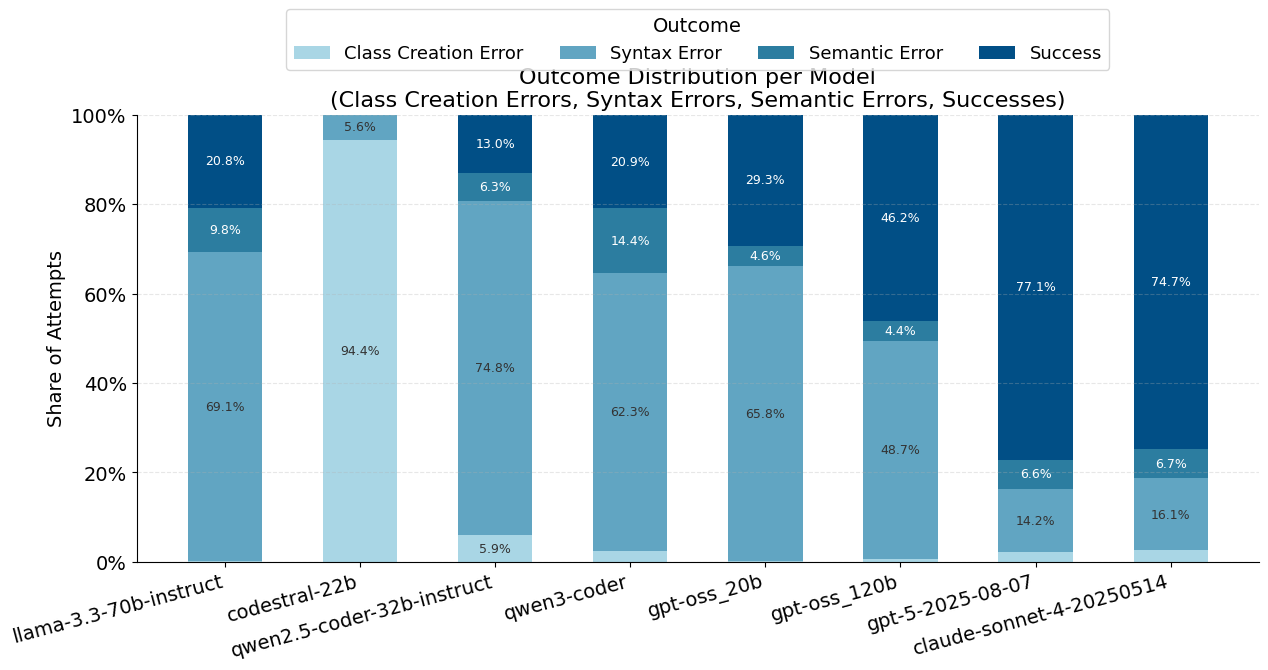
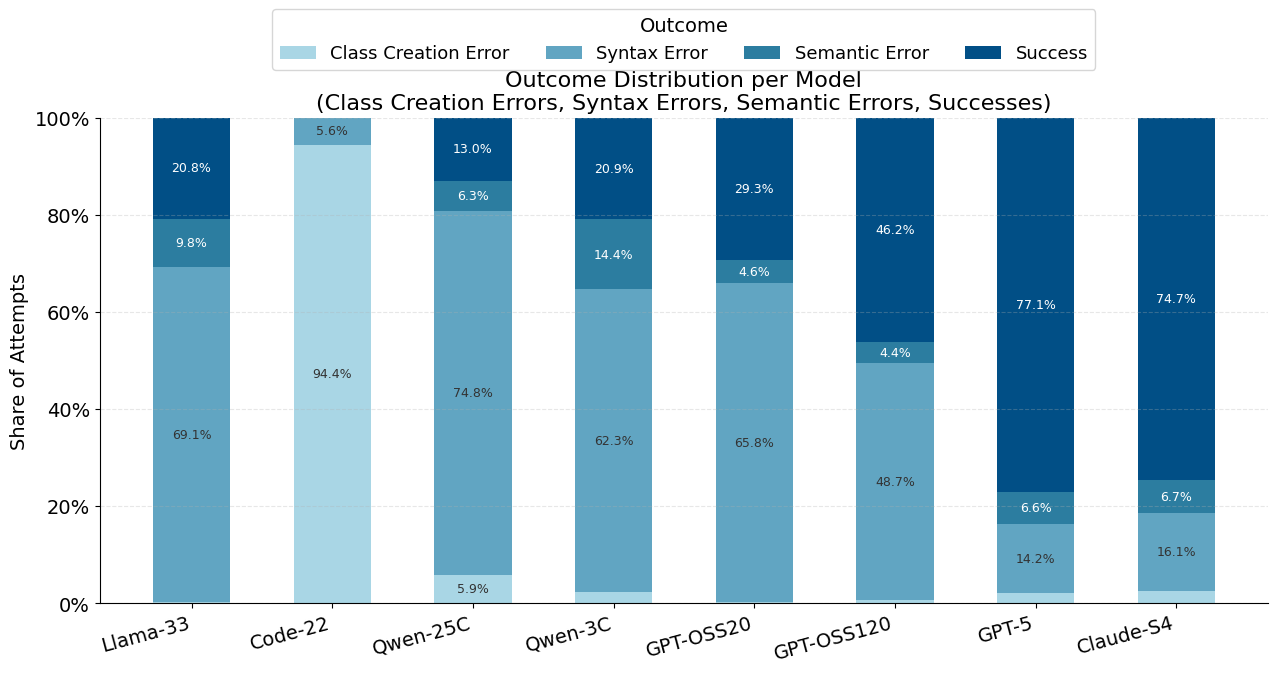
use model name abbreviations in plots

diff --git a/analysis/plot_success_with_vs_without_unittest.py b/analysis/plot_success_with_vs_without_unittest.py
@@ -3,7 +3,7 @@ import numpy as np
 import matplotlib.pyplot as plt
 from matplotlib.ticker import PercentFormatter
 from typing import Dict, Tuple
-from plot_style import COLORS, apply_plot_style
+from plot_style import COLORS, apply_plot_style, MODEL_ABBREVIATIONS
 
 apply_plot_style()
 
@@ -143,7 +143,7 @@ def plot_comparison(success_normal: Dict[str, float], success_no_ut: Dict[str, f
         ax.text(bar.get_x() + bar.get_width() / 2, height + normal_errs[i] + 1, f'{height:.1f}%', ha='center', va='bottom', fontsize=9, rotation=0)
     
     ax.set_xticks(x)
-    ax.set_xticklabels(models, rotation=15, ha="right")
+    ax.set_xticklabels([MODEL_ABBREVIATIONS.get(m, m) for m in models], rotation=15, ha="right")
     ax.set_ylabel("Successful Code Generations")
     ax.yaxis.set_major_formatter(PercentFormatter(100))
     ax.set_title("Success Rate: Without Unit Test Improvement vs After 5 Feedback Rounds\n(with 95% Confidence Intervals)")

diff --git a/analysis/plot_success_by_category.py b/analysis/plot_success_by_category.py
@@ -3,7 +3,7 @@ import numpy as np
 import matplotlib.pyplot as plt
 from matplotlib.ticker import PercentFormatter
 from typing import Dict, List
-from plot_style import COLORS, apply_plot_style
+from plot_style import COLORS, apply_plot_style, MODEL_ABBREVIATIONS
 
 apply_plot_style()
 
@@ -120,7 +120,7 @@ def visualize_prompt_classification_success(data: Dict[str, Dict[str, float]], c
             error_kw={'elinewidth': 1, 'alpha': 0.7}
         )
         
-    plt.xticks(x + bar_width * (num_categories - 1) / 2, models, rotation=15, ha="right")
+    plt.xticks(x + bar_width * (num_categories - 1) / 2, [MODEL_ABBREVIATIONS.get(m, m) for m in models], rotation=15, ha="right")
     plt.ylabel("Success Rate")
     plt.title("Model Performance by Task Category (with 95% CIs)")
     plt.gca().yaxis.set_major_formatter(PercentFormatter(100))

diff --git a/analysis/plot_success_by_round.py b/analysis/plot_success_by_round.py
@@ -3,7 +3,7 @@ import numpy as np
 import matplotlib.pyplot as plt
 from matplotlib.ticker import PercentFormatter
 from typing import Dict, List
-from plot_style import COLORS, apply_plot_style
+from plot_style import COLORS, apply_plot_style, MODEL_ABBREVIATIONS
 
 apply_plot_style()
 
@@ -120,7 +120,7 @@ def visualize_success_by_llm(model_data: Dict[str, List[float]], sample_counts: 
         )
 
     ax.set_xticks(x)
-    ax.set_xticklabels(models, rotation=15, ha="right")
+    ax.set_xticklabels([MODEL_ABBREVIATIONS.get(m, m) for m in models], rotation=15, ha="right")
     ax.set_ylabel("Cumulative Successful Runs")
     ax.yaxis.set_major_formatter(PercentFormatter(100))
     ax.set_title("Cumulative Successful Code Generations by Feedback Round in Percent\n(with 95% Confidence Intervals)")

diff --git a/analysis/plot_unsolved_prompts.py b/analysis/plot_unsolved_prompts.py
@@ -2,7 +2,7 @@ import pandas as pd
 import numpy as np
 import matplotlib.pyplot as plt
 from typing import Dict, List, Set, Tuple
-from plot_style import COLORS, apply_plot_style
+from plot_style import COLORS, apply_plot_style, MODEL_ABBREVIATIONS
 
 apply_plot_style()
 
@@ -99,7 +99,7 @@ def plot_unsolved_counts(unsolved_prompts: Dict[str, Set[str]], models: List[str
         )
         
     ax.set_xticks(x)
-    ax.set_xticklabels(models, rotation=15, ha="right")
+    ax.set_xticklabels([MODEL_ABBREVIATIONS.get(m, m) for m in models], rotation=15, ha="right")
     ax.set_ylabel("Number of Unsolved Prompts")
     ax.set_title("Total Unsolved Prompts by Model (Never Succeeded in Any Repetition)")
     

diff --git a/analysis/km_analysis.py b/analysis/km_analysis.py
@@ -2,7 +2,7 @@ import pandas as pd
 from lifelines import KaplanMeierFitter
 import numpy as np
 import matplotlib.pyplot as plt
-from plot_style import COLORS, LINE_STYLES, apply_plot_style
+from plot_style import COLORS, LINE_STYLES, apply_plot_style, MODEL_ABBREVIATIONS
 
 apply_plot_style()
 
@@ -100,7 +100,7 @@ def run_analysis():
         print(f"Samples: {len(km_df)} | Events: {km_df['event'].sum()}")
 
         kmf = KaplanMeierFitter()
-        kmf.fit(km_df['duration'], km_df['event'], label=model)
+        kmf.fit(km_df['duration'], km_df['event'], label=MODEL_ABBREVIATIONS.get(model, model))
 
         print("\n--- Survival Table (Head) ---")
         print(kmf.event_table.head())

diff --git a/analysis/plot_syntax_error_patterns.py b/analysis/plot_syntax_error_patterns.py
@@ -3,7 +3,7 @@ import pandas as pd
 import numpy as np
 import matplotlib.pyplot as plt
 from matplotlib.ticker import PercentFormatter
-from plot_style import COLORS, apply_plot_style
+from plot_style import COLORS, apply_plot_style, MODEL_ABBREVIATIONS
 
 apply_plot_style()
 
@@ -85,7 +85,7 @@ def visualize_syntax_errors(json_path='../data/syntax_errors.json'):
         )
 
     ax.set_xticks(x)
-    ax.set_xticklabels(models, rotation=15, ha="right")
+    ax.set_xticklabels([MODEL_ABBREVIATIONS.get(m, m) for m in models], rotation=15, ha="right")
     ax.set_xlabel("Models")
     ax.set_ylabel("Percentage of Errors")
     ax.yaxis.set_major_formatter(PercentFormatter(1))

diff --git a/analysis/plot_error_types_distribution.py b/analysis/plot_error_types_distribution.py
@@ -3,7 +3,7 @@ import numpy as np
 import matplotlib.pyplot as plt
 from matplotlib.ticker import PercentFormatter
 from typing import Dict, List
-from plot_style import COLORS, apply_plot_style
+from plot_style import COLORS, apply_plot_style, MODEL_ABBREVIATIONS
 
 apply_plot_style()
 
@@ -139,7 +139,7 @@ def visualize_combined_summary_errors(summary: dict):
         )
 
     ax.set_xticks(x)
-    ax.set_xticklabels(models, rotation=15, ha="right")
+    ax.set_xticklabels([MODEL_ABBREVIATIONS.get(m, m) for m in models], rotation=15, ha="right")
     ax.set_xlabel("Models")
     ax.set_ylabel("Percentage of Errors")
     ax.yaxis.set_major_formatter(PercentFormatter(1))

diff --git a/analysis/km_analysis_abap.py b/analysis/km_analysis_abap.py
@@ -2,7 +2,7 @@ import pandas as pd
 from lifelines import KaplanMeierFitter
 import numpy as np
 import matplotlib.pyplot as plt
-from plot_style import COLORS, LINE_STYLES, apply_plot_style
+from plot_style import COLORS, LINE_STYLES, apply_plot_style, MODEL_ABBREVIATIONS
 
 apply_plot_style()
 
@@ -110,7 +110,7 @@ def run_analysis():
 
         if len(km_df) > 0:
             kmf = KaplanMeierFitter()
-            kmf.fit(km_df['duration'], km_df['event'], label=model)
+            kmf.fit(km_df['duration'], km_df['event'], label=MODEL_ABBREVIATIONS.get(model, model))
 
             print("\n--- Survival Table (Head) ---")
             print(kmf.event_table.head())

diff --git a/analysis/plot_outcome_distribution.py b/analysis/plot_outcome_distribution.py
@@ -2,7 +2,7 @@ import pandas as pd
 import numpy as np
 import matplotlib.pyplot as plt
 from matplotlib.ticker import PercentFormatter
-from plot_style import COLORS, apply_plot_style
+from plot_style import COLORS, apply_plot_style, MODEL_ABBREVIATIONS
 
 apply_plot_style()
 
@@ -115,7 +115,7 @@ def plot_stacked_outcomes(pct, totals):
         bottoms += vals
 
     ax.set_xticks(x)
-    ax.set_xticklabels(models, rotation=15, ha="right")
+    ax.set_xticklabels([MODEL_ABBREVIATIONS.get(m, m) for m in models], rotation=15, ha="right")
     ax.set_ylabel("Share of Attempts")
     ax.yaxis.set_major_formatter(PercentFormatter())
     ax.set_ylim(0, 100)

diff --git a/analysis/plot_style.py b/analysis/plot_style.py
@@ -30,3 +30,14 @@ def apply_plot_style():
         'grid.alpha': 0.3,
         'grid.linestyle': '--'
     })
+
+MODEL_ABBREVIATIONS = {
+    'llama-3.3-70b-instruct': 'Llama-33',
+    'codestral-22b': 'Code-22',
+    'qwen2.5-coder-32b-instruct': 'Qwen-25C',
+    'qwen3-coder': 'Qwen-3C',
+    'gpt-oss_20b': 'GPT-OSS20',
+    'gpt-oss_120b': 'GPT-OSS120',
+    'gpt-5-2025-08-07': 'GPT-5',
+    'claude-sonnet-4-20250514': 'Claude-S4'
+}
